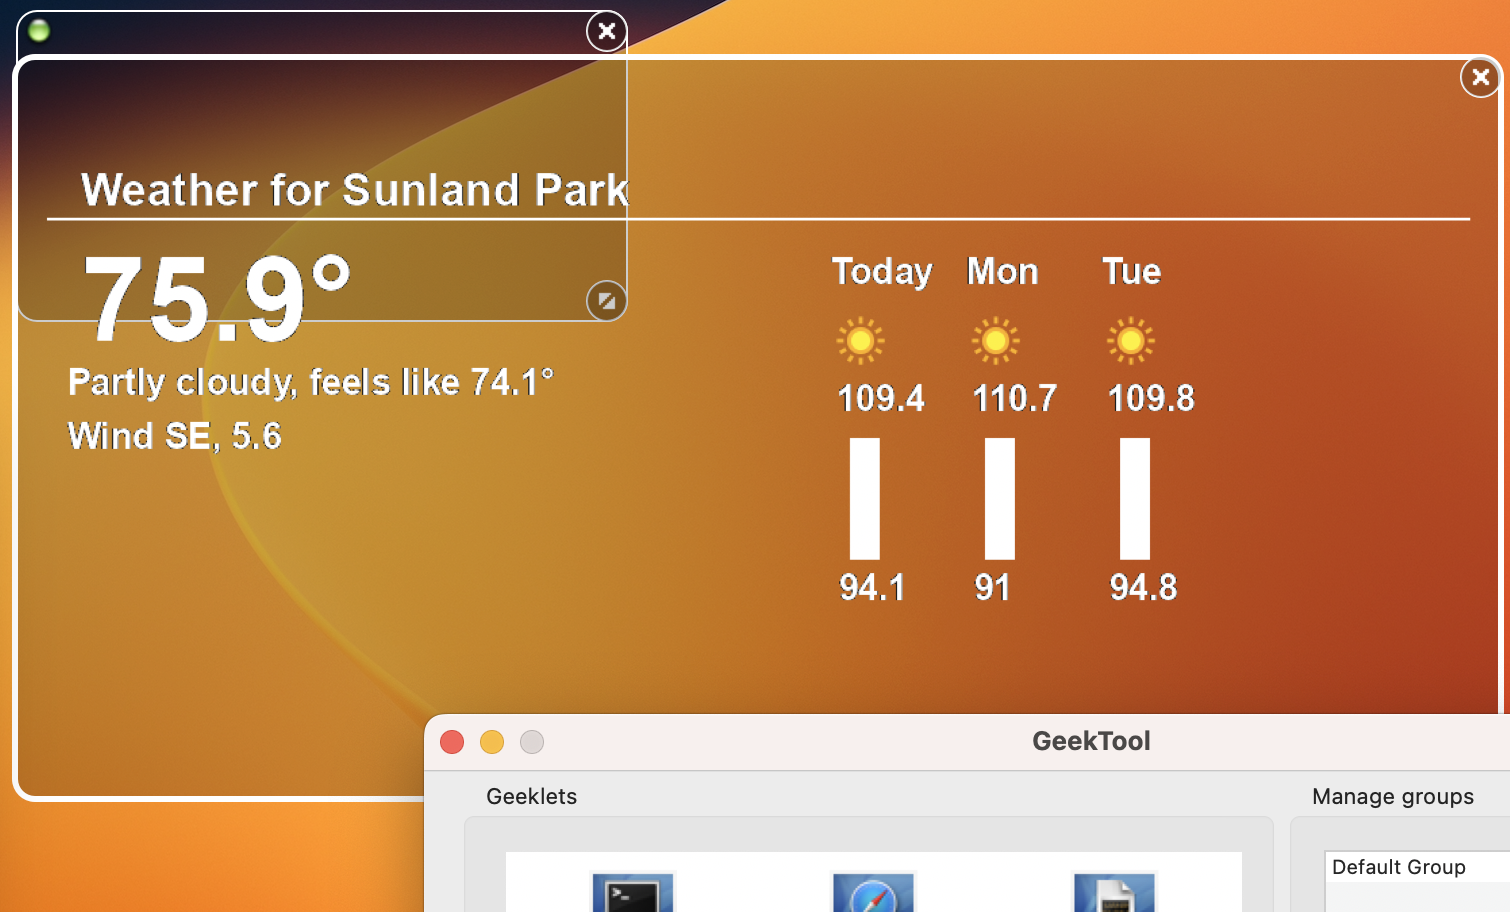
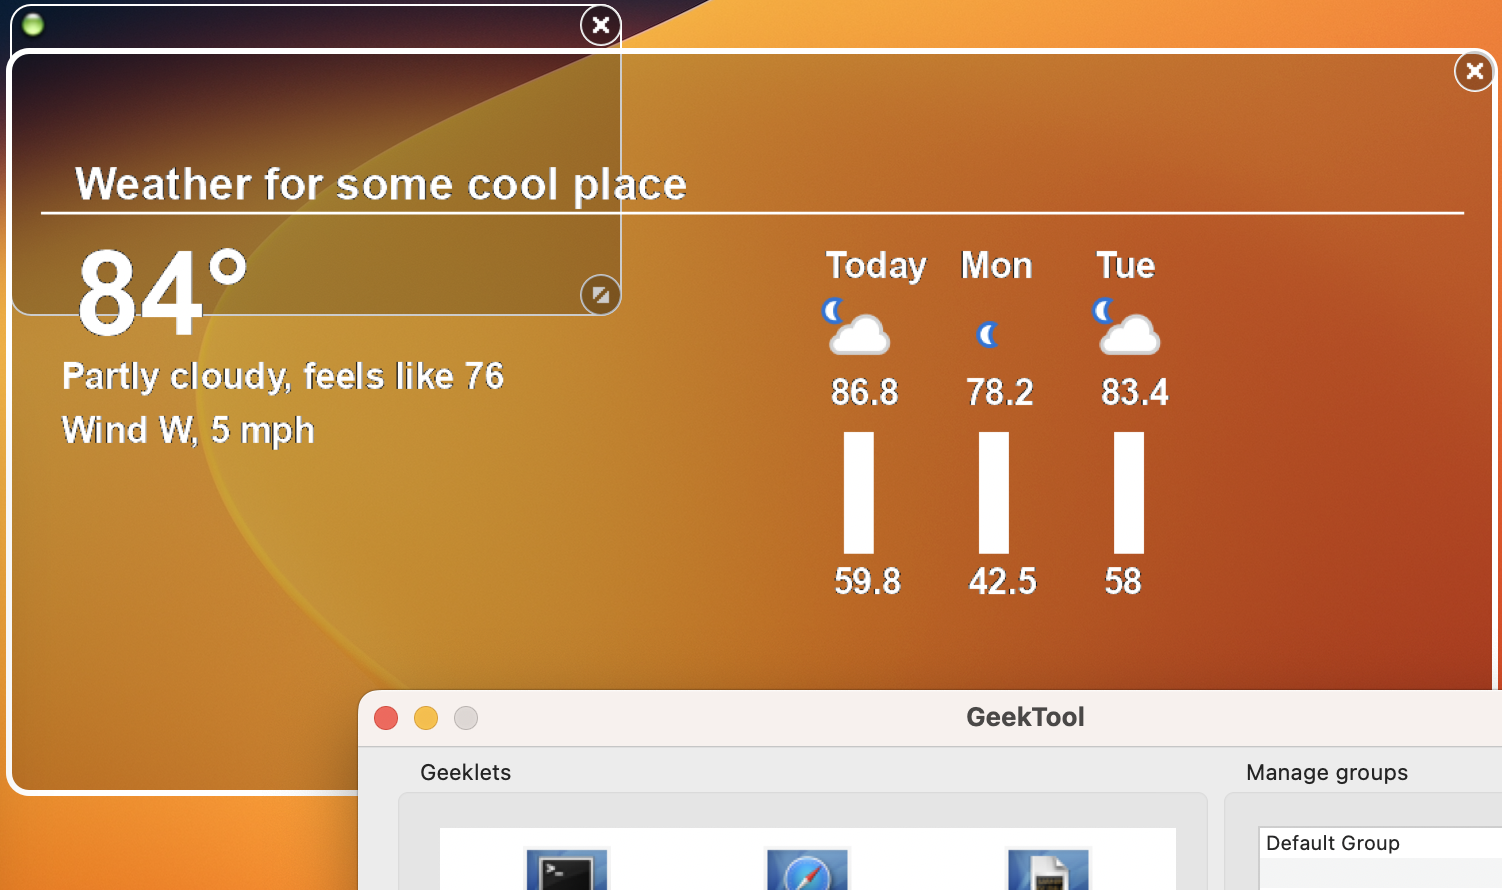
readme

diff --git a/weather.php b/weather.php
@@ -220,7 +220,7 @@ foreach( $RAW_RESPONSE['forecast']['forecastday'] as $i => $DAY_FORECAST ) {
 
 }
 
-/*
+
 // Test data
 $RESPONSE_DATA = [
       'heading'   => "Weather for some cool place",
@@ -252,7 +252,7 @@ $RESPONSE_DATA = [
             ],
       ],
 ];
-*/
+
 
 header ('Content-Type: image/png');
 $canvas = @imagecreate( $OPTIONS['width'],$OPTIONS['height'] );
